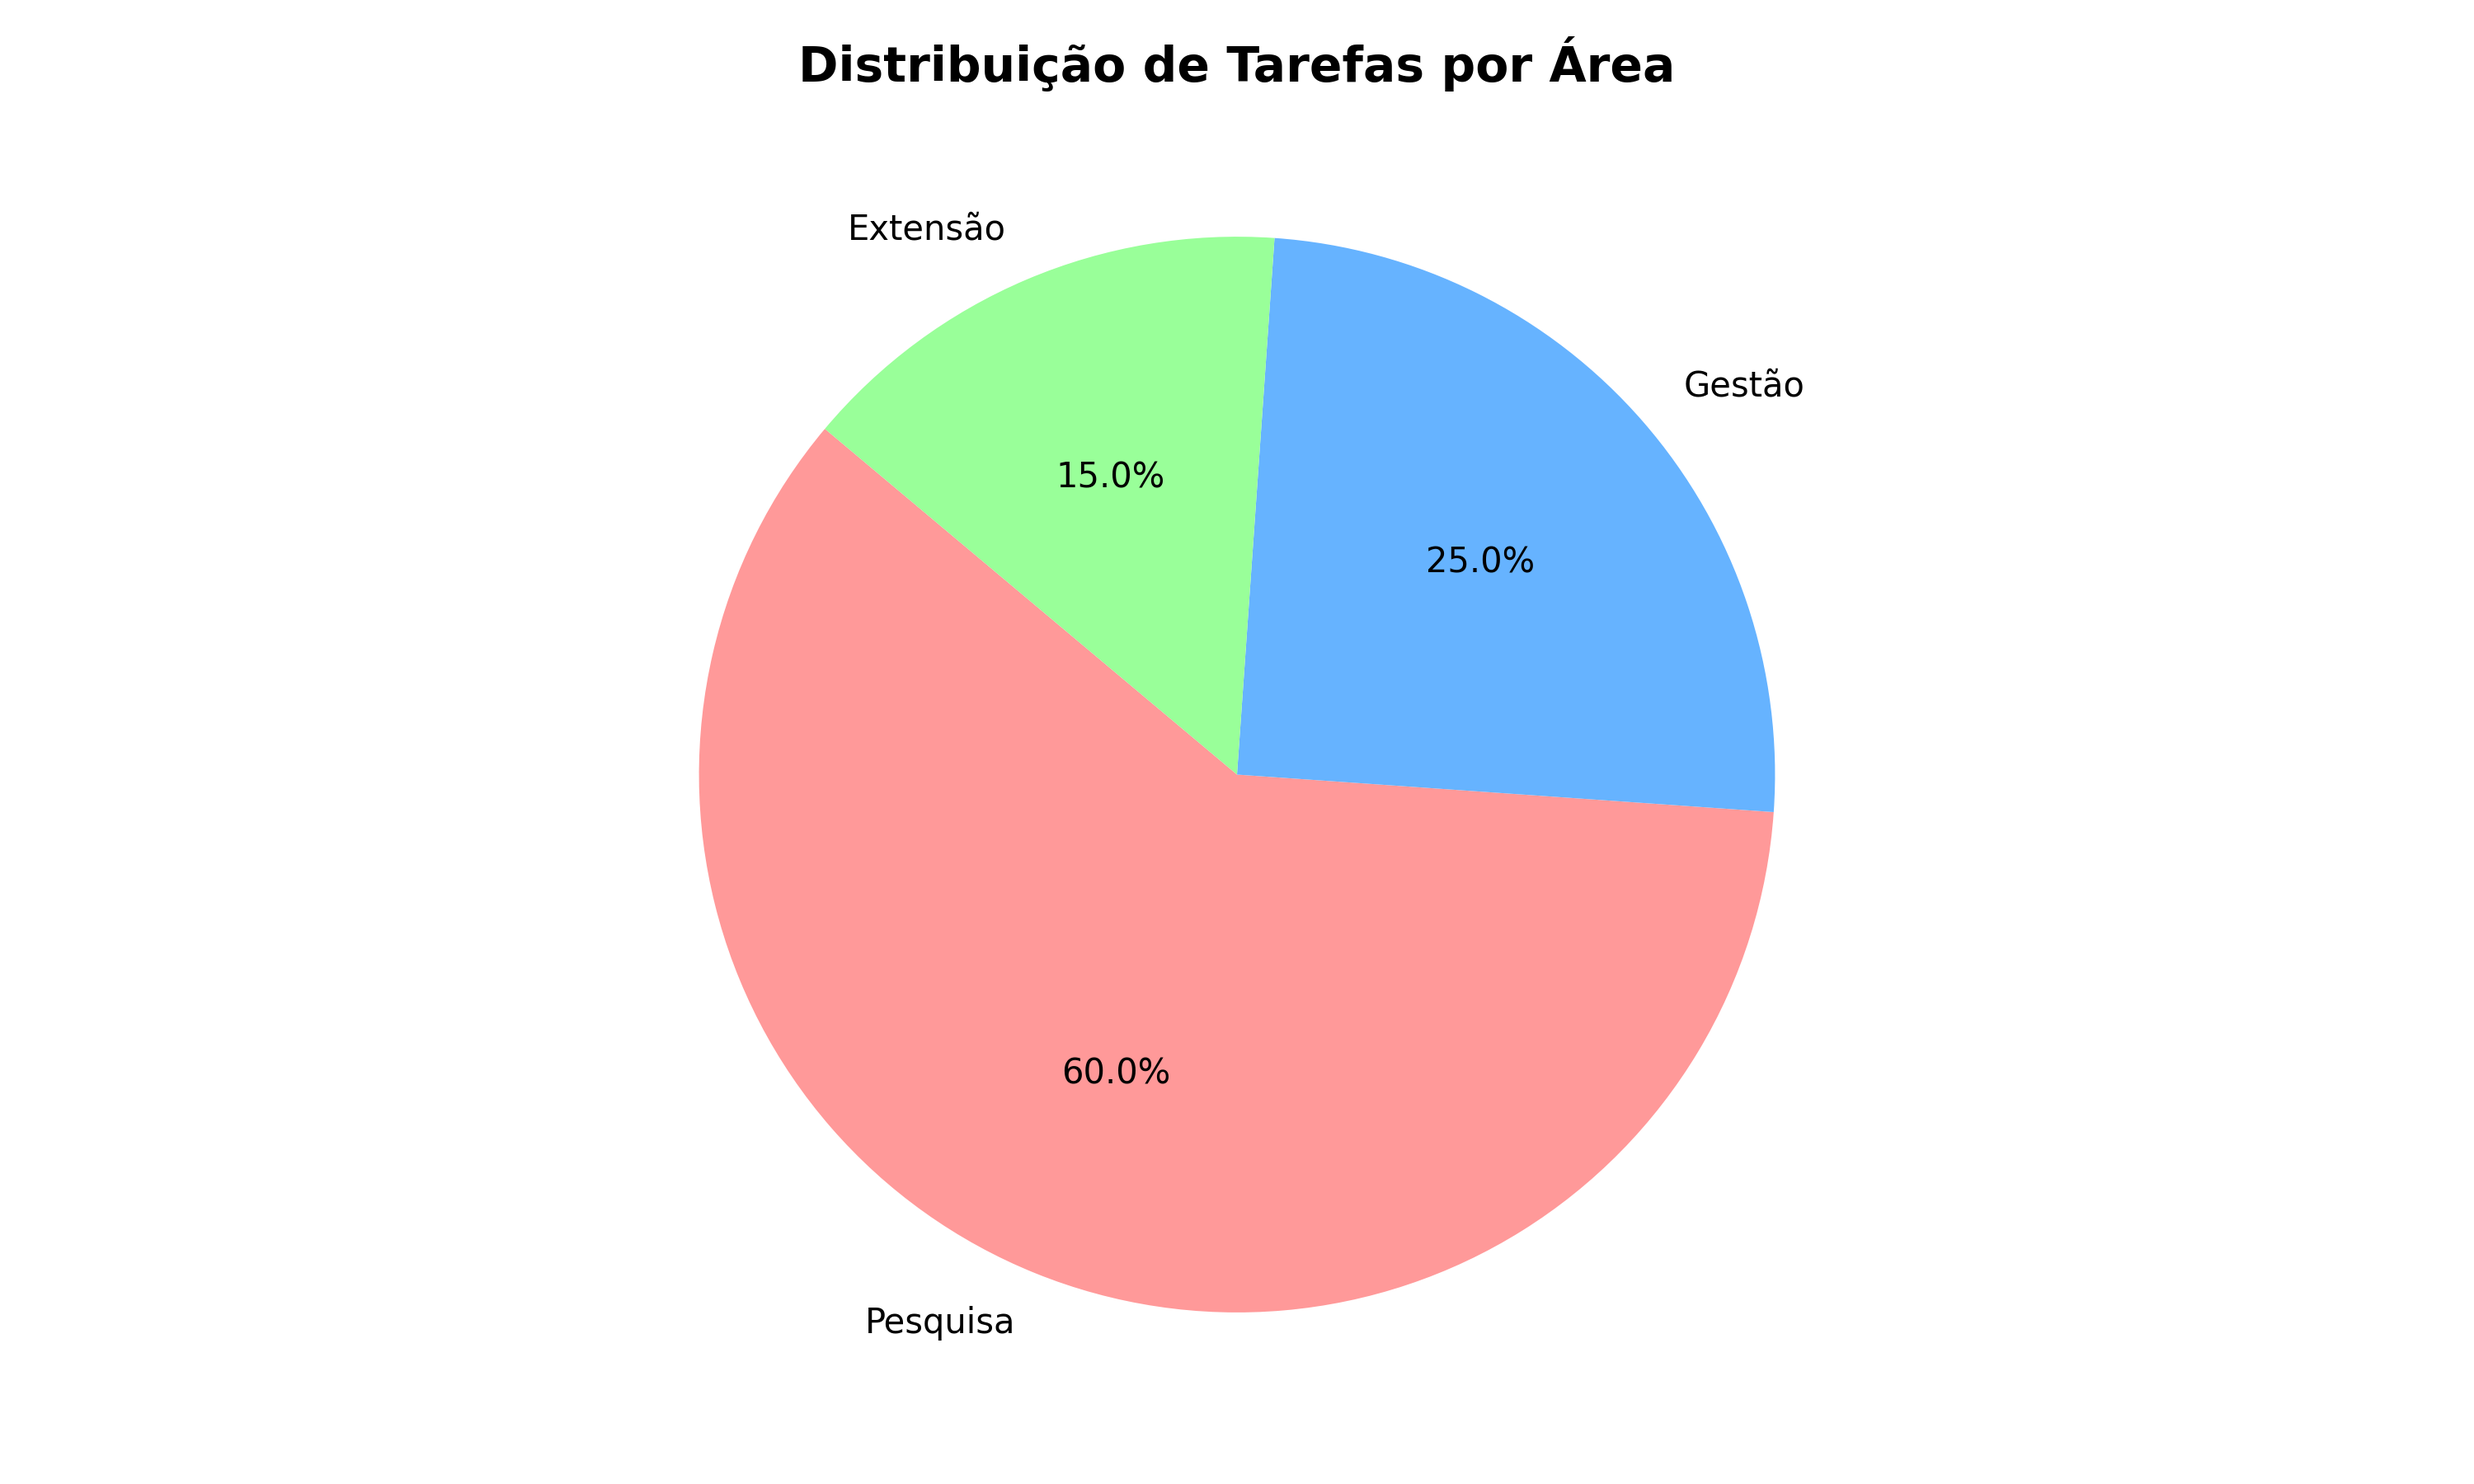
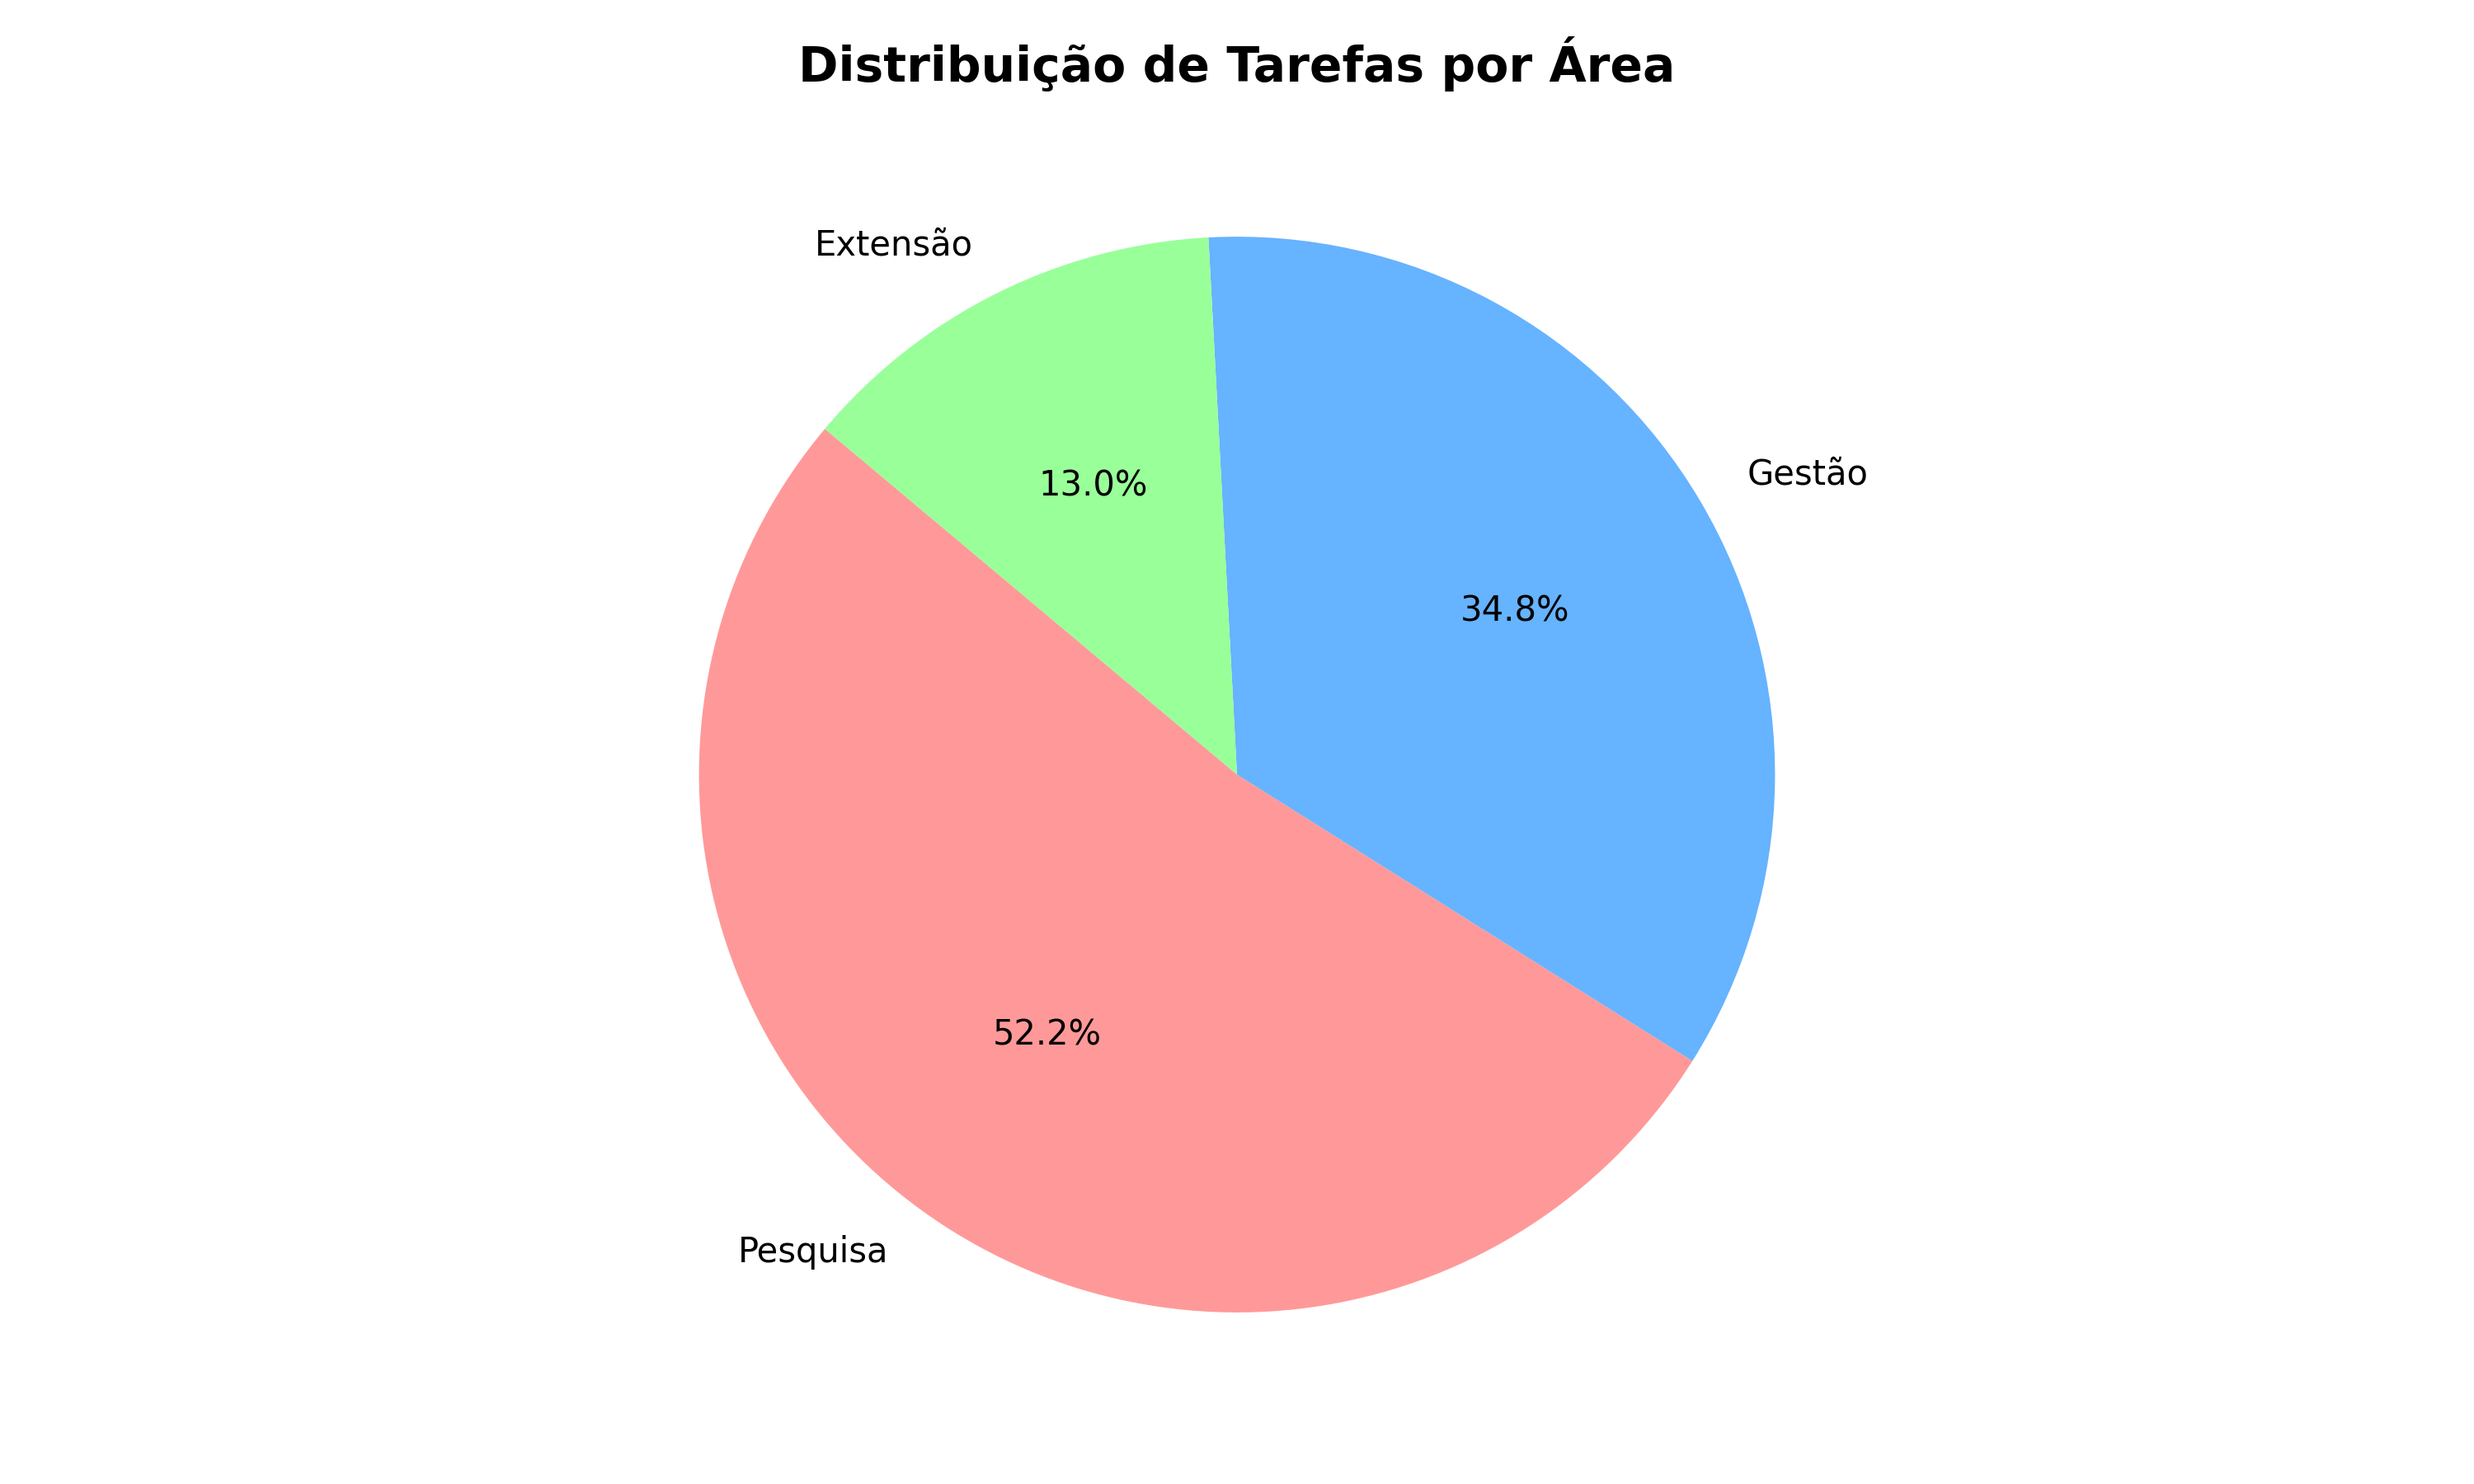
Deployed cd51ccf2 with MkDocs version: 1.5.3

diff --git a/atividades/2026-03-atividades/index.html b/atividades/2026-03-atividades/index.html
@@ -988,6 +988,11 @@
 <ul>
 <li><a href="https://github.com/ifesserra-lab/diretoria/issues/20">#20</a> - [PROJETO]: Aprovação do APPD&amp;I Zaruc × IFES — Nova Economia Capixaba (⏳)</li>
 <li><a href="https://github.com/ifesserra-lab/diretoria/issues/19">#19</a> - [TAREFA]: Apoio na submissão de projeto ao Edital ProInfra (Infraestrutura de IA com energias renováveis) (✅)</li>
+<li><a href="https://github.com/ifesserra-lab/diretoria/issues/17">#17</a> - [PROJETO]: Colaboração Internacional com o Paraguai (⏳)</li>
+<li><a href="https://github.com/ifesserra-lab/diretoria/issues/16">#16</a> - [PROJETO]: Ministério dos Povos Indígenas (MPI) (⏳)</li>
+<li><a href="https://github.com/ifesserra-lab/diretoria/issues/15">#15</a> - [PROJETO]: Dashboard de Sustentabilidade (Cadastro SIG Pesq) (⏳)</li>
+<li><a href="https://github.com/ifesserra-lab/diretoria/issues/14">#14</a> - [PROJETO]: LEDS Academy (Cadastro SIG Pesq) (⏳)</li>
+<li><a href="https://github.com/ifesserra-lab/diretoria/issues/12">#12</a> - [TAREFA]: Reunião com o mestrado de automação (convite Gustavo Maia) (✅)</li>
 <li><a href="https://github.com/ifesserra-lab/diretoria/issues/11">#11</a> - [TAREFA]: Acompanhar o cadastro do SITEC dos mestrados (✅)</li>
 <li><a href="https://github.com/ifesserra-lab/diretoria/issues/10">#10</a> - [TAREFA]: Solicitar calendários aos responsáveis pela pós-graduação (✅)</li>
 <li><a href="https://github.com/ifesserra-lab/diretoria/issues/9">#9</a> - [TAREFA]: Solicitar ao procurador para tornar públicos os dados de pesquisa e extensão (✅)</li>
@@ -1004,6 +1009,9 @@
 </ul>
 <h3 id="gestao-dppge">🏛 Gestão (DPPGE)</h3>
 <ul>
+<li><a href="https://github.com/ifesserra-lab/diretoria/issues/23">#23</a> - [TAREFA]: Laboratório SOF — Alocação de sala para 19 máquinas (⏳)</li>
+<li><a href="https://github.com/ifesserra-lab/diretoria/issues/22">#22</a> - [TAREFA]: Conversar com o NAC sobre planejamento (⏳)</li>
+<li><a href="https://github.com/ifesserra-lab/diretoria/issues/21">#21</a> - [TAREFA]: Aprovar documento NEA sobre gestão (⏳)</li>
 <li><a href="https://github.com/ifesserra-lab/diretoria/issues/18">#18</a> - [TAREFA]: Avaliar participação de professores do IFES no mestrado PROFComp (SBC/UFRJ) (⏳)</li>
 <li><a href="https://github.com/ifesserra-lab/diretoria/issues/13">#13</a> - [TAREFA]: Receber produtos da Receita Federal, categorizar e dividir entre as áreas do campus (✅)</li>
 <li><a href="https://github.com/ifesserra-lab/diretoria/issues/7">#7</a> - [TAREFA]: Organizar primeiro bate-papo informal com a comunidade (⏳)</li>
